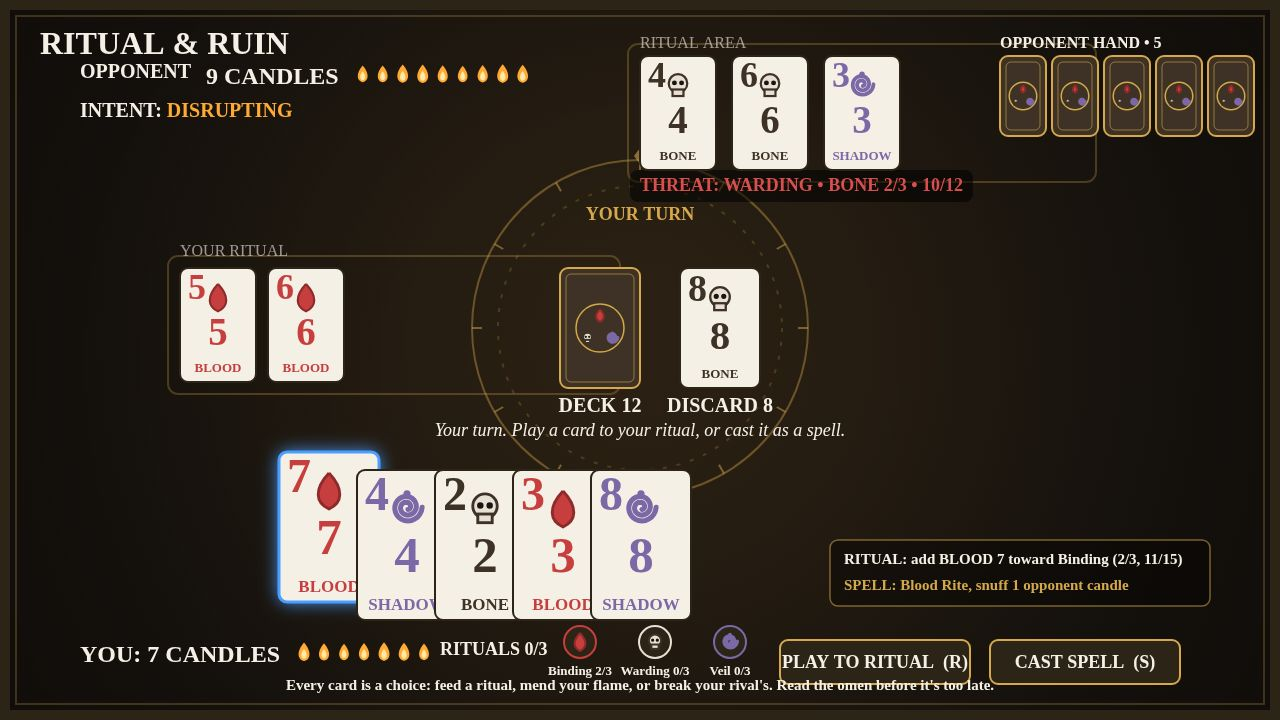
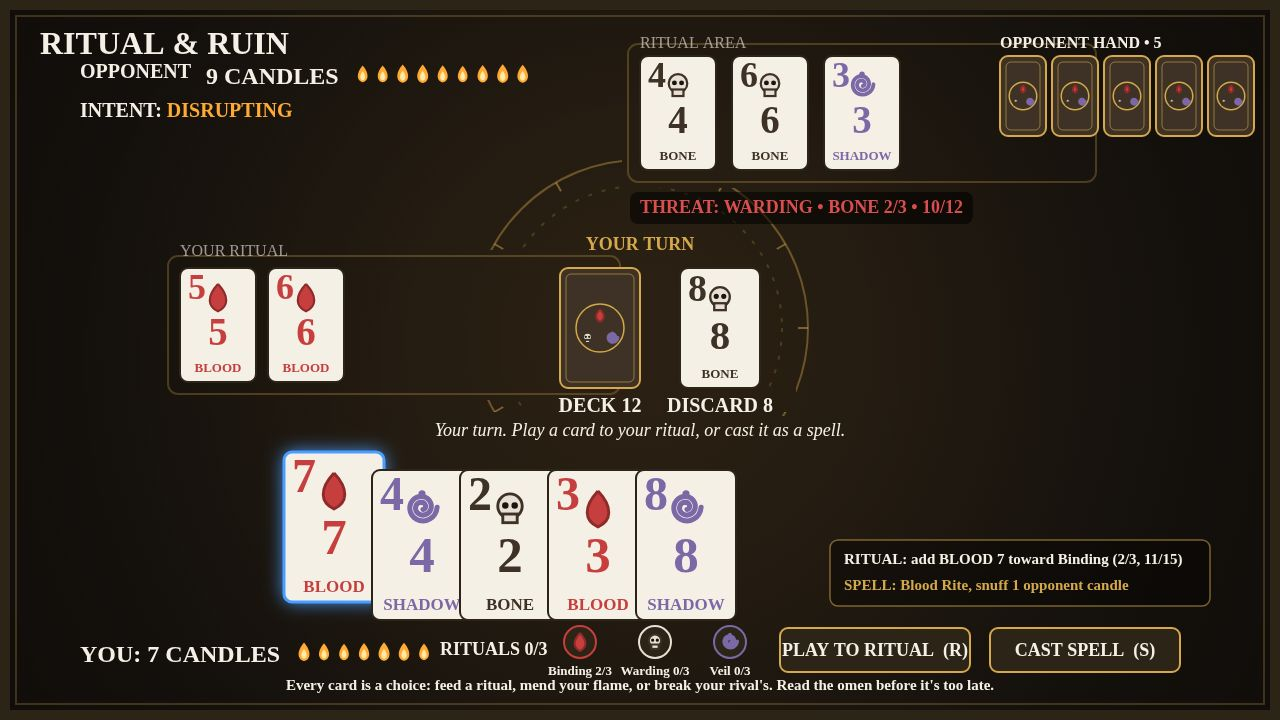
Round 3 overlap fix: clip altar circles so they never cut through cards/frames/text, space out threat pill, YOUR TURN, hand fan, buttons and hook

Changed region(s): [[0.1875, 0.6111, 0.5938, 0.8861], [0.5938, 0.8556, 0.9375, 0.9778], [0.4688, 0.2444, 0.75, 0.3667]]

diff --git a/game/src/ui.js b/game/src/ui.js
@@ -251,7 +251,21 @@ export function drawTitle(ctx, game, t) {
   ctx.fillStyle = grad;
   ctx.fillRect(0, 0, L.width, L.height);
   // Faint altar ring behind the title, the same seal as on the table.
+  // Clipped around the title, the taglines, the seals and the buttons, so
+  // no ring ever crosses a word or a button edge.
   ctx.save();
+  ctx.beginPath();
+  ctx.rect(0, 0, L.width, L.height);
+  const titleHoles = [
+    [295, 152, 690, 76],  // RITUAL & RUIN
+    [470, 238, 340, 36],  // A Duel of Occultists
+    [370, 298, 540, 28],  // 3 rituals, dual-use cards, extinguish the rival
+    [488, 316, 304, 64],  // the three suit seals
+    [484, 394, 312, 68],  // START GAME
+    [484, 470, 312, 68],  // HOW TO PLAY
+  ];
+  for (const [x, y, w, h] of titleHoles) ctx.rect(x, y, w, h);
+  ctx.clip('evenodd');
   ctx.strokeStyle = 'rgba(212, 168, 75, 0.16)';
   ctx.lineWidth = 2;
   ctx.beginPath();
@@ -353,7 +367,22 @@ export function drawEnd(ctx, game, won) {
     ctx.fillStyle = grad;
     ctx.fillRect(0, 0, L.width, L.height);
   }
+  // The same faint altar ring as the table and title, clipped around the
+  // headline, the flavour line, the seals and the candle totals, so the
+  // ring never crosses a word.
   ctx.save();
+  ctx.beginPath();
+  ctx.rect(0, 0, L.width, L.height);
+  const endHoles = [
+    [430, 108, 420, 68],  // YOU WIN / YOU LOSE
+    [430, 190, 420, 38],  // RITUAL COMPLETE / YOUR CANDLES HAVE DIED
+    [320, 240, 640, 30],  // flavour line
+    [458, 298, 364, 128], // ritual seals and their names
+    [370, 456, 540, 30],  // candle totals
+    [484, 514, 312, 68],  // PLAY AGAIN / TRY AGAIN
+  ];
+  for (const [x, y, w, h] of endHoles) ctx.rect(x, y, w, h);
+  ctx.clip('evenodd');
   ctx.strokeStyle = won ? 'rgba(212, 168, 75, 0.2)' : 'rgba(154, 147, 138, 0.16)';
   ctx.lineWidth = 2;
   ctx.beginPath();

diff --git a/game/src/render.js b/game/src/render.js
@@ -34,10 +34,29 @@ function roundRect(ctx, x, y, w, h, r) {
 
 // The altar: two chalk circles and tick marks around the deck and discard,
 // so the empty middle of the table becomes the ritual circle itself.
+// The rings are clipped to the bare table with the even-odd rule: every
+// frame, card, label and line of text is cut out of the clip region, so a
+// ring never crosses a border or a word. The circle reads as painted on the
+// table underneath the game pieces instead of cutting through them.
 function drawAltar(ctx) {
   const cx = 640;
   const cy = 328;
   ctx.save();
+  ctx.beginPath();
+  ctx.rect(0, 0, LAYOUT.width, LAYOUT.height);
+  const holes = [
+    [622, 38, 480, 150],   // opponent ritual frame
+    [162, 250, 480, 150],  // player ritual frame
+    [554, 262, 92, 132],   // deck pile
+    [674, 262, 92, 132],   // discard pile
+    [538, 388, 124, 28],   // DECK label
+    [644, 388, 152, 28],   // DISCARD label
+    [540, 230, 200, 26],   // YOUR TURN / OPPONENT THINKING...
+    [320, 412, 640, 32],   // message line
+    [163, 444, 645, 184],  // player hand
+  ];
+  for (const [x, y, w, h] of holes) ctx.rect(x, y, w, h);
+  ctx.clip('evenodd');
   ctx.strokeStyle = 'rgba(212, 168, 75, 0.4)';
   ctx.lineWidth = 2;
   ctx.beginPath();
@@ -63,15 +82,6 @@ function drawAltar(ctx) {
     ctx.lineTo(x2, y2);
     ctx.stroke();
   }
-  // Small diamond at the top of the ring.
-  ctx.fillStyle = 'rgba(212, 168, 75, 0.6)';
-  ctx.beginPath();
-  ctx.moveTo(cx, cy - 180);
-  ctx.lineTo(cx + 6, cy - 172);
-  ctx.lineTo(cx, cy - 164);
-  ctx.lineTo(cx - 6, cy - 172);
-  ctx.closePath();
-  ctx.fill();
   ctx.restore();
 }
 

diff --git a/main.ts b/main.ts
@@ -3,12 +3,12 @@
 // wipes the output dir first, then writes /output/dossier.json with
 // buildDossier from the kit's vendored module. Node 22, stdlib only.
 //
-// Fix pass for Round 3 (visual and presentation only, no rule or balance
-// changes): the table now draws a layered felt with a chalk altar circle
-// and ritual frames, the dual-use panel explains each selected card, the
-// AI threat line names the nearest ritual with its progress, cards fly
-// from hand to ritual or discard on a tweened proxy, and the title and
-// end screens share the same altar seal with a stronger payoff.
+// Overlap revision (Round 3, second pass): the altar rings on the table,
+// title and end screens are now clipped around every frame, card, label
+// and line of text with the even-odd rule, so no ring crosses a border or
+// a word; the threat pill and YOUR TURN got breathing room below the
+// opponent frame, the hand fan is wider so every suit label reads, and
+// the action buttons moved up so the judge hook line clears them.
 
 import { cpSync, existsSync, mkdirSync, readdirSync, rmSync, writeFileSync } from 'node:fs';
 import { dirname, join } from 'node:path';

diff --git a/game/src/table.js b/game/src/table.js
@@ -9,19 +9,19 @@ export const LAYOUT = {
   oppRitual: { x: 640, y: 56, cardW: 76, cardH: 114, gap: 16 },
   oppHand: { x: 1000, y: 56, cardW: 46, cardH: 80, gap: 6 },
   intent: { x: 80, y: 112 },
-  warning: { x: 640, y: 186 },
+  warning: { x: 640, y: 208 },
   deck: { x: 560, y: 268, w: 80, h: 120 },
   discard: { x: 680, y: 268, w: 80, h: 120 },
   playerRitualLabel: { x: 180, y: 256 },
   playerRitual: { x: 180, y: 268, cardW: 76, cardH: 114, gap: 12 },
   message: { x: 640, y: 436 },
-  hand: { x: 240, y: 470, cardW: 100, cardH: 150, overlap: 78 },
+  hand: { x: 240, y: 470, cardW: 100, cardH: 150, overlap: 88 },
   playerCandles: { x: 80, y: 656 },
   progress: { x: 440, y: 650 },
-  ritualButton: { x: 780, y: 640, w: 190, h: 44 },
-  spellButton: { x: 990, y: 640, w: 190, h: 44 },
+  ritualButton: { x: 780, y: 628, w: 190, h: 44 },
+  spellButton: { x: 990, y: 628, w: 190, h: 44 },
   hook: { x: 640, y: 690 },
-  turnLabel: { x: 640, y: 200 },
+  turnLabel: { x: 640, y: 230 },
 };
 
 export class Table {
